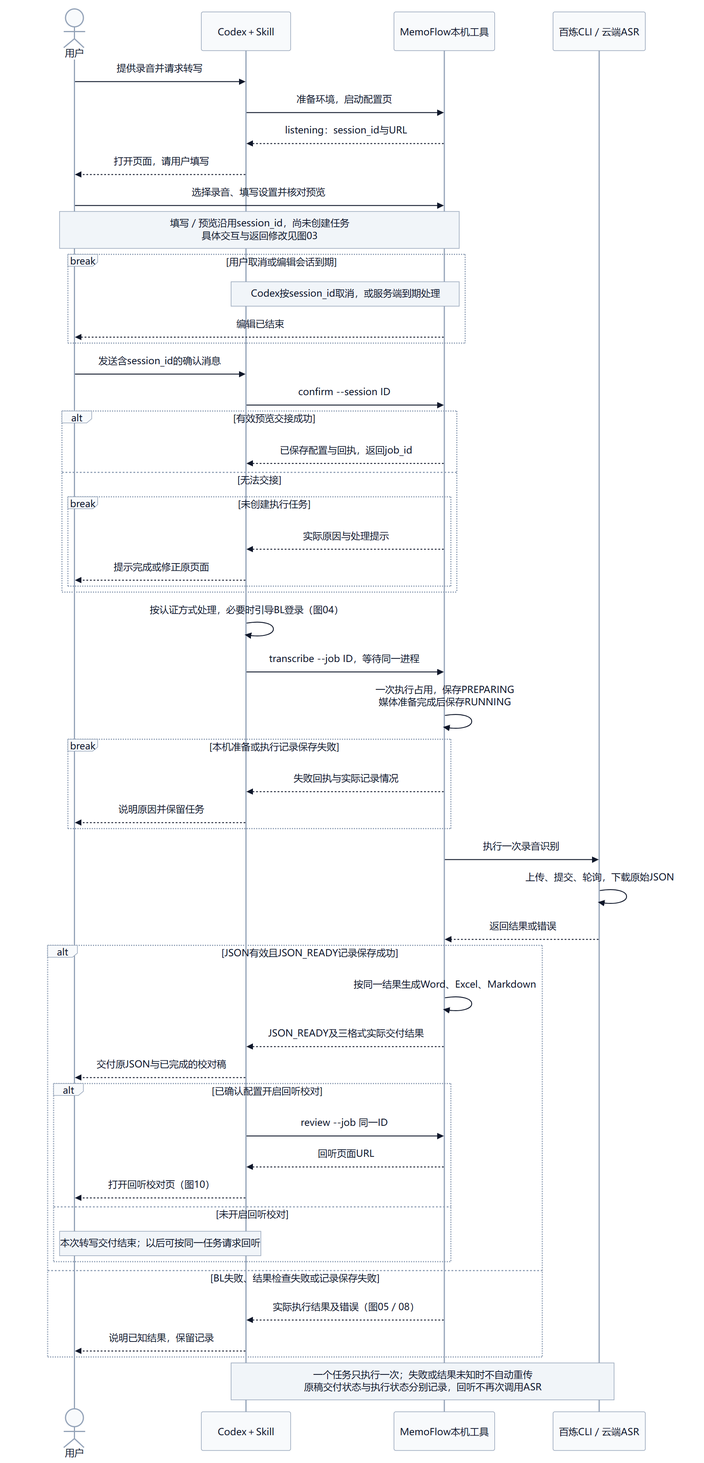
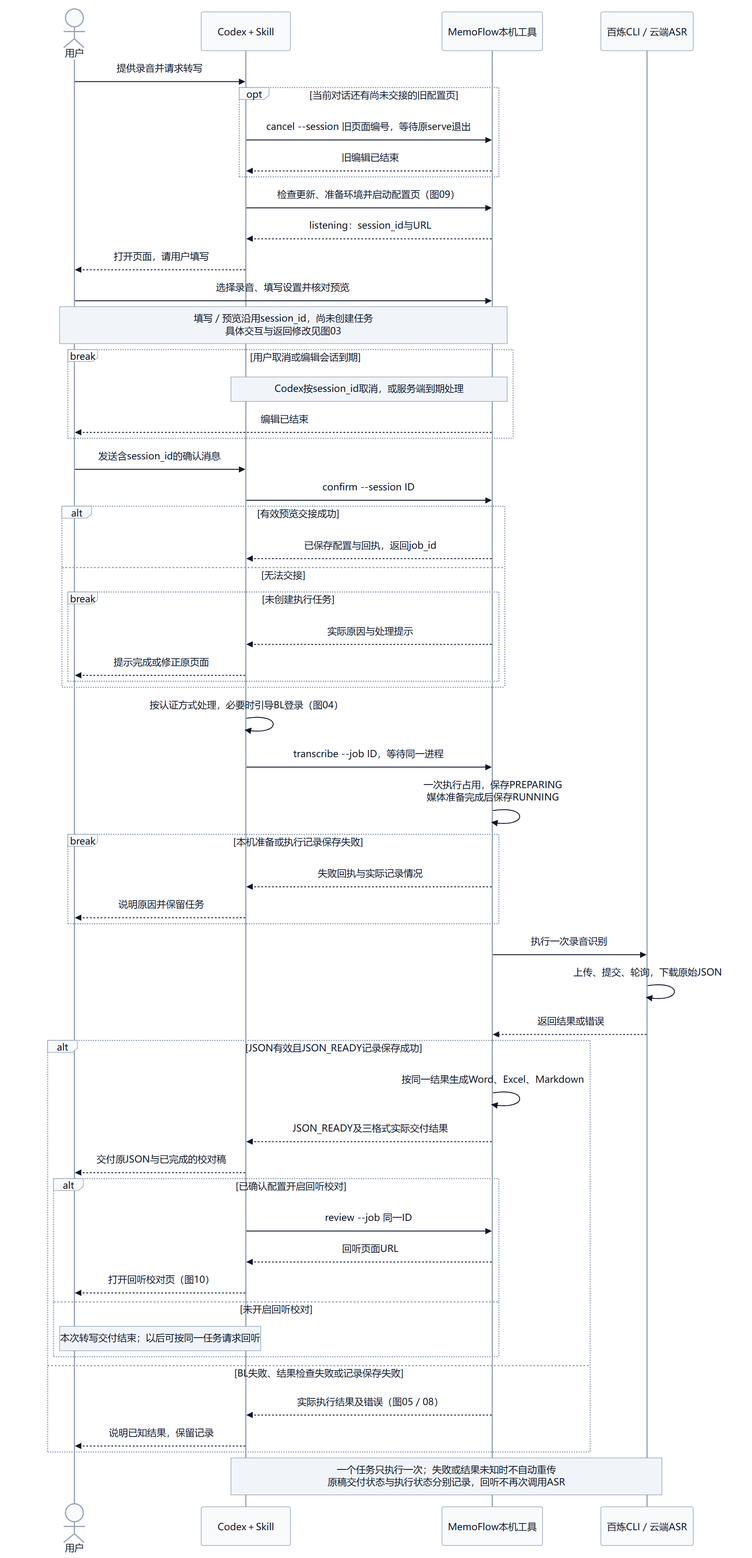
fix: start a fresh recording flow after closing prior configuration

diff --git a/tests/test_package.py b/tests/test_package.py
@@ -9,6 +9,8 @@ import shutil
 import subprocess
 import sys
 from unittest.mock import patch
+from urllib.request import HTTPCookieProcessor, build_opener
+import wave
 from zipfile import ZipFile
 
 import update
@@ -42,7 +44,7 @@ class PackageTests(RuntimeTestCase):
         return destination
 
     def test_cancelled_page_releases_packaged_skill_for_update(self):
-        """验证实际发行页面取消并退出后，更新器取得同一安装的独占使用权。"""
+        """验证旧配置页退出后可检查更新，再带入新录音进入填写阶段。"""
         installed = self.extract()
         command = [sys.executable, "-B", "-X", "utf8", str(installed / "scripts/asr.py"),
                    "--workspace", str(self.runtime.workspace)]
@@ -55,6 +57,7 @@ class PackageTests(RuntimeTestCase):
             with patch.object(update, "_download") as download:
                 self.assertEqual(update.update_skill(installed, check_now=True)["status"], "deferred")
             download.assert_not_called()
+            self.assertFalse((installed / update.STATE).exists())
             cancelled = subprocess.run(command + ["cancel", "--session", listening["session_id"]],
                                        capture_output=True, text=True, encoding="utf-8", timeout=15)
             self.assertEqual(cancelled.returncode, 0, cancelled.stderr)
@@ -67,7 +70,33 @@ class PackageTests(RuntimeTestCase):
             with patch.object(update, "_download", return_value=release) as download:
                 self.assertEqual(update.update_skill(installed, check_now=True)["status"], "latest")
             download.assert_called_once_with(update.LATEST_URL)
+
+            recording = self.runtime.workspace / "新的录音 中文 空格.wav"
+            with wave.open(str(recording), "wb") as audio:
+                audio.setnchannels(1)
+                audio.setsampwidth(2)
+                audio.setframerate(8000)
+                audio.writeframes(b"\0\0" * 800)
+            process = subprocess.Popen(command + ["serve", "--no-browser", "--audio", str(recording)],
+                                       stdout=subprocess.PIPE, stderr=subprocess.PIPE, text=True, encoding="utf-8")
+            assert process.stdout is not None
+            new_page = json.loads(process.stdout.readline())
+            self.assertEqual(new_page["event"], "listening")
+            self.assertNotEqual(new_page["session_id"], listening["session_id"])
+            browser = build_opener(HTTPCookieProcessor())
+            with browser.open(new_page["url"], timeout=10) as response:
+                self.assertEqual(response.status, 200)
+            with browser.open(new_page["url"].rstrip("/") + "/api/session", timeout=10) as response:
+                session = json.load(response)
+            self.assertEqual(session["phase"], "editing")
+            self.assertEqual(session["audio"]["path"], str(recording))
+            self.assertIsNone(session["preview"])
             self.assertFalse(self.runtime.path(".state/jobs").exists())
+            cancelled = subprocess.run(command + ["cancel", "--session", new_page["session_id"]],
+                                       capture_output=True, text=True, encoding="utf-8", timeout=15)
+            self.assertEqual(cancelled.returncode, 0, cancelled.stderr)
+            _, errors = process.communicate(timeout=15)
+            self.assertEqual(process.returncode, 0, errors)
         finally:
             if process.poll() is None:
                 process.kill()

diff --git a/skills/asr-transcription/SKILL.md b/skills/asr-transcription/SKILL.md
@@ -15,9 +15,11 @@ description: 在 Codex 中通过本机网页将单个录音转为带时间戳的
 
 ## 选择当前动作
 
+按本次用户意图区分“开始新录音”和“继续原任务”。录音附件是本次输入；只有用户确认已经核对过的网页预览时，才进入按编号交接。
+
 | 用户意图 | 动作 |
 | --- | --- |
-| 新录音或录音附件 | 已有基础 Python 时先检查更新，再准备当前 Skill 的依赖并进入“新录音”；首次缺少运行时先完成运行准备。附件也经过网页核对。 |
+| 请求转写新录音，含录音附件或路径 | 进入“新录音”，先处理本次旧配置页，再检查更新、准备环境并带入录音开页。 |
 | 取消本次填写或预览 | 按“结束当前页面”处理。 |
 | 主动检查／更新本 Skill | 有本次活动配置页或回听页时，先按“结束当前页面”收尾，再检查更新。只有用户明确提出本 Skill 更新才加 `--check-now`；上下文可补全所指 Skill。 |
 | 提供 ZIP 安装／更新 | 有本次活动页面时先按“结束当前页面”收尾，再按“安装或更新”处理。 |
@@ -40,7 +42,7 @@ description: 在 Codex 中通过本机网页将单个录音转为带时间戳的
 
 ## 检查更新
 
-开始新的使用时，读[自动更新](references/usage.md#自动更新)，用 `BASE_PYTHON -I -X utf8 SKILL_DIR/scripts/update.py` 检查。更新入口不接收 `--workspace`；它仅依赖基础 Python。基础 Python 尚不存在时先完成运行准备，已打开页面或正在等待登录／转写则继续原进程。
+开始新一轮使用时，读[自动更新](references/usage.md#自动更新)，用 `BASE_PYTHON -I -X utf8 SKILL_DIR/scripts/update.py` 检查。更新入口不接收 `--workspace`；它仅依赖基础 Python。基础 Python 尚不存在时先完成运行准备。用户继续当前填写、预览、登录或转写时复用原进程，不再次检查；明确转写新录音时按“新录音”重新开始。
 
 代码每天最多自动联网检查一次，成功、无更新和失败都计入当天；用户主动更新本 Skill 时加 `--check-now`。检查前文字告知，发现新版时说明当前／目标版本，最后按回执报告实际结果。无需另查 GitHub 或循环重跑。
 
@@ -49,7 +51,8 @@ description: 在 Codex 中通过本机网页将单个录音转为带时间戳的
 先判断 `repair_required`：为 `true` 时按[更新问题](references/errors.md#skill更新问题)修复。其余结果按原请求继续：
 
 - `updated`：重新读取新 `SKILL.md`，用原基础 Python 运行 `bootstrap --cleanup-old-cache`。成功后按下述规则简述更新，随后继续原请求。
-- `failed` 且可恢复、当天缓存、`deferred`、`unmanaged`、无更新或附带记录／清理警告：报告结果并继续使用当前安装；详表见更新问题。其他占用命令沿原进程继续，本次已取消页面保持结束。
+- `deferred`：仍有命令占用，保持当前安装；按本次用户意图继续。新录音进入开页步骤，不能因更新暂缓转去索要旧页面的确认编号。
+- `failed` 且可恢复、当天缓存、`unmanaged`、无更新或附带记录／清理警告：报告结果并继续使用当前安装；详表见更新问题。本次已取消页面保持结束。
 
 只要求检查／更新时，处理完保持空闲。原请求是新转写时，完成环境准备后实际启动网页并请求打开链接，再请用户填写。共享 Skill 的更新结果不能代替各工作目录的依赖准备。
 
@@ -69,10 +72,11 @@ description: 在 Codex 中通过本机网页将单个录音转为带时间戳的
 
 ## 新录音
 
-1. **启动并打开网页。** 使用本次用户提供或宿主明确标注的录音绝对路径执行 `PYTHON ENTRY --workspace WORKSPACE serve --audio AUDIO_PATH`。多个录音未指定时先让用户选择一个；没有可访问附件路径时正常启动空表单，由用户在页面选择。保留原进程句柄，等待 `event=listening` 并记住 `session_id`。宿主能开链接时加 `--no-browser`，收到回执后请求打开 `url` 一次；否则读取系统浏览器打开结果。失败按[开页问题](references/errors.md#页面打开问题)处理，正常路径不依赖截图或 computer-use。
-2. **交给用户填写。** 实际收到监听回执并提交打开请求后，请用户填写、点击“确认并预览”、核对上传范围与费用，再点“复制给 Codex”发送包含接收方、地域、模型和会话编号的确认消息。结束当前回复并保留服务。转写及回听期间保持原录音可访问。
-3. **按用户编号交接。** 用户表达开始意图并亲自提供本次预览的 `session_id` 后，执行 `confirm --session SESSION_ID`。仅“继续／确认”而没有编号时，请其粘贴复制消息，不能从启动回执、历史或文件时间代选。随后单独补发编号即可承接开始意图。成功取得 `job_id` 才执行；失败按提示处理原页面。重复确认返回原任务。
-4. **认证并执行。** API Key 模式直接执行，工具读取网页保存的当前 Key；控制台模式按下表处理。交接已包含本次上传授权，执行一次 `transcribe --job JOB_ID`，启动后告知已开始并等待同一进程，直到交付或明确失败再结束回复。
+1. **准备新一轮填写。** 当前对话有尚未交接的配置页时，先告知结束旧填写，按“结束当前页面”取消并等待原 `serve` 退出。保留本次录音路径，串行完成检查更新和必要的运行准备，再启动新页面；首次缺少基础 Python 时先准备运行。已交接任务、回听页和其他对话的服务保持各自生命周期。
+2. **启动并打开网页。** 使用本次用户提供或宿主明确标注的录音绝对路径执行 `PYTHON ENTRY --workspace WORKSPACE serve --audio AUDIO_PATH`。多个录音未指定时先让用户选择一个；没有可访问附件路径时正常启动空表单，由用户在页面选择。保留原进程句柄，等待 `event=listening` 并记住 `session_id`。宿主能开链接时加 `--no-browser`，收到回执后请求打开 `url` 一次；否则读取系统浏览器打开结果。失败按[开页问题](references/errors.md#页面打开问题)处理，正常路径不依赖截图或 computer-use。
+3. **交给用户填写。** 实际收到监听回执并提交打开请求后，请用户填写、点击“确认并预览”、核对上传范围与费用，再点“复制给 Codex”发送包含接收方、地域、模型和会话编号的确认消息。结束当前回复并保留服务。转写及回听期间保持原录音可访问。
+4. **按用户编号交接。** 用户核对本次网页预览并发送含 `session_id` 的确认消息后，执行 `confirm --session SESSION_ID`。用户正在确认已开预览、但仅回复“继续／确认”而没有编号时，请其粘贴复制消息，不能从启动回执、历史或文件时间代选。随后单独补发编号即可承接确认意图。成功取得 `job_id` 才执行；失败按提示处理原页面。重复确认返回原任务。
+5. **认证并执行。** API Key 模式直接执行，工具读取网页保存的当前 Key；控制台模式按下表处理。交接已包含本次上传授权，执行一次 `transcribe --job JOB_ID`，启动后告知已开始并等待同一进程，直到交付或明确失败再结束回复。
 
 | 控制台凭据情况 | 动作 |
 | --- | --- |
@@ -98,9 +102,9 @@ description: 在 Codex 中通过本机网页将单个录音转为带时间戳的
 
 先按页面类型选择入口：填写／预览使用 `session_id` 与 `cancel`；回听使用原 `job_id` 与 `review-close`。回听期间用户要求更新或提供新ZIP时，按上节先完成保存、关闭回听并等待原进程退出，再继续更新或安装。
 
-用户在填写或预览时取消、检查更新或提供新 ZIP，先用本次活动页面启动回执中已保存的编号运行 `cancel --session SESSION_ID`，取得结果并等待原 `serve` 退出；直接复用已有环境。目标页面不明确时先确认范围。
+用户在填写或预览时取消、明确开始新录音、检查更新或提供新 ZIP，先用当前对话活动页面启动回执中已保存的编号运行 `cancel --session SESSION_ID`，取得结果并等待原 `serve` 退出；直接复用已有环境。目标页面不明确时先确认范围。
 
-- `cancelled`：本次编辑结束；只取消则保持空闲，要求更新则进入对应入口。下一次转写新建会话。
+- `cancelled`：本次编辑结束；只取消则保持空闲，要求更新则进入对应入口，明确转写新录音则继续新一轮更新、准备及开页。
 - `expired`：编辑已到期，等待服务退出后按本次请求继续。编辑期限从打开起固定两小时，不影响已交接任务。
 - `handed_off`：已有任务，取消入口没有撤回它；用户要求停止时停止后续执行。已启动 BL 的情况按原执行记录说明，本机停止不代表云端取消。
 

diff --git a/doc/STATUS.md b/doc/STATUS.md
@@ -1,6 +1,12 @@
 # 当前开发检查点
 
-更新：2026-11-16。**v0.1.6已正式发布并设为latest**，Release ID为446669327，标签固定在137ab3f。发布地址：https://github.com/hx101700/memoflow/releases/tag/v0.1.6 。本次发布与master合并已有用户明确授权；后续新任务的Git操作按新指示处理。
+更新：2026-11-16。用户已明确授权将新录音分派修正同步master并同号重发v0.1.6。沿用Release446669327，其他版本保持；本次重发前标签提交为137ab3f。发布地址：https://github.com/hx101700/memoflow/releases/tag/v0.1.6 。Release正文按用户要求保持已确认版本。
+
+## 当前修正
+
+用户反馈先前已打开配置页，再附上新录音时更新暂缓，Codex误要求旧预览编号。源码Skill现按本次意图区分新录音和原任务确认：新录音先取消当前对话未交接的旧配置页并等待退出，再更新、准备及带入附件开页；其他任务或回听占用仍可暂缓更新，保持原服务。仅确认已核对的预览时要求用户提供编号。Python业务实现与锁机制未改变。
+
+扩展现有打包集成用例，实际验证旧页面占用→取消退出→更新检查→中文空格路径附件进入editing、无preview及job；15项打包回归通过（19.810秒）。另有独立只读Skill行为推演3场景、Skill格式、25份文档177个链接与03/07/09图渲染通过。重发双包已生成并核对，等待提交、同号标签和附件更新；用户安装保持原样。
 
 ## 当前交付
 
@@ -15,7 +21,7 @@
 
 ## 发布与验证
 
-- 正式双包位于dist/release-v0.1.6，轻量包55文件／410527字节，完整版57文件／70429121字节；逐文件、最新README、manifest、官方运行时和ZIP CRC核对通过。远端附件大小与SHA-256一致。
+- 本次重发双包位于dist/release-v0.1.6-reissue，轻量包55文件／411046字节，完整版57文件／70429640字节；逐文件、最新README、manifest、官方运行时和ZIP CRC核对通过。原发布包位于dist/release-v0.1.6，历史核对记录保留在ACCEPTANCE。
 - Release正文采用用户确认版本，六个历史Release及附件保持；本版为最新正式版本。发布代码为137ab3f，之后的提交仅补充发布记录。
 - 本版开发验证包含完整Python567项、前端68项、Edge5项及类型/构建/Skill格式检查。媒体连接收尾修正后22项HTTP回归通过；发布元数据同步后51项打包/更新测试通过。实际命令、范围与时间见ACCEPTANCE。
 - 公开更新入口已使独立官方v0.1.5副本升级到0.1.6：受管文件匹配轻量包，清单结构匹配，更新说明匹配Release；当日再次调用返回checked_today且不重复说明。
@@ -23,7 +29,7 @@
 
 ## 接续开发
 
-后续在dev开展。项目与安装清单版本为0.1.6；下一次正式发布时再递增，历史标签和附件保持。Release继续采用release/NEXT约定与简短“修复 bug 并优化使用体验。”。
+后续在dev开展。项目与安装清单版本保持0.1.6；本次用户明确授权重发，其他历史标签和附件保持。同号资源更新仍使用ZIP重新安装流程，自动更新仅获取更高版本。Release继续采用release/NEXT约定与简短“修复 bug 并优化使用体验。”。
 
 SHA-256匹配历史成功音视频并取回转写文档按ISSUES排期待开发，尚未实现。个性化纪要生成及反馈学习仍属于后续阶段。
 

diff --git a/doc/ACCEPTANCE.md b/doc/ACCEPTANCE.md
@@ -1,5 +1,17 @@
 # 验证记录
 
+## 2026-11-16 v0.1.6新录音衔接重发准备
+
+用户明确授权同步master与重发同一v0.1.6，Release正文保持原确认版本。`unittest tests.test_package -q` 15项通过，19.810秒，包含旧服务占用释放、更新检查与新附件开页回归。双包dist/release-v0.1.6-reissue按固定清单逐文件核对源码、README、manifest及官方运行时，CRC通过；轻量包55文件/411046字节、SHA-256为8764c3f5ca96da8032242a64dfefc3f3cb5736a1096d6c3daf4ae9ee78896096；完整版57文件/70429640字节、SHA-256为8ecddfaafc25d5aa4ec4d5fd14aa86f550846f699e1d0c2be62690b24151dfb2。
+
+预检确认目标Release446669327及原标签对象fadd18e77439a99d8e81066eb87091bca570b216，保存七个公开Release的ID、正文与附件摘要供重发后比对。公开API预检遇到限流后使用既有GitHub登录完成，只影响发布工具，不修改Skill更新器。实际标签、附件替换与远端核对结果随后记录。
+
+## 2026-11-16 新附件与旧配置页的更新衔接
+
+修正范围为Skill及相关说明，不修改Python业务或更新锁。扩展现有`tests.test_package.PackageTests.test_cancelled_page_releases_packaged_skill_for_update`，真实启动已打包serve后验证deferred未联网且未写日检；取消并等待进程退出，更新检查成功后用中文空格路径带入新录音，再读取HTTP页面状态确认editing、正确audio、preview为空且没有job。用例通过，6.331秒，未请求云端。
+
+独立评估者仅读修改后的SKILL.md，对三个场景作命令顺序推演：旧配置页后新附件、原预览只回复继续、其他目录占用导致deferred。新附件两种情形均进入开页，原预览确认等待用户编号；这是行为推演，不替代真实Codex会话执行。Skill格式有效，25份文档177个链接与差异检查通过；03/07/09经共享入口渲染。正式v0.1.6、远端及用户安装未改变。
+
 ## 2026-11-16 v0.1.6正式发布与公开升级
 
 用户明确授权合并master并发布新版本。master/dev已快进到137ab3f9cdacde695d636b047a203f922a956b40，新增标签v0.1.6指向该提交。GitHub Release446669327公开且latest为v0.1.6，正文与本地release/NOTES.md一致；两附件大小及SHA-256均与下方发布准备记录一致。六个历史Release的ID和附件摘要回读保持，未删除或重发旧版本。

diff --git a/doc/DEVLOG.md b/doc/DEVLOG.md
@@ -4,6 +4,8 @@
 
 | 日期 | 当时变更与决定 |
 | --- | --- |
+| 2026-11-16 | 用户授权将新录音分派修正推送master并重新发布v0.1.6，要求Release不加同版本手动更新说明，沿用已确认正文。15项打包回归和重发双包核对通过，准备按原标签对象租约更新v0.1.6并沿用Release446669327替换两附件，其他版本保持 |
+| 2026-11-16 | 用户反馈旧页面打开后提交新录音，更新deferred后被索要预览编号。确认Skill将新使用、旧会话继续和更新后分派的边界写得不够明确；新增当前对话旧配置页收尾顺序，收窄按编号交接到用户确认网页预览，保留其他任务的共享使用。运行锁及更新器不变，扩展已有集成测试与独立行为推演验证；同步references及03/07/09图，未推送发布 |
 | 2026-11-16 | v0.1.6正式发布完成，master/dev快进到发布代码137ab3f，Release446669327标为latest；双包及已确认正文回读一致，历史六个版本及附件保留。独立官方v0.1.5副本经公开入口升级成功，受管文件、清单结构、更新说明及当日日检复用核对通过；用户安装未替换，详细记录见ACCEPTANCE |
 | 2026-11-16 | 用户确认v0.1.6正式发布并授权合并master。通过npm同步根及BL安装清单/锁版本，保留固定CLI2.10.1；README去重、简化回听节点、持续反馈和代码块按最终反馈修改，Release沿用已确认文案。51项发行/更新回归及正式双包核对通过；实际发布结果完成后追加 |
 | 2026-11-16 | 用户指出GitHub仍显示旧图和旧索引；核对确认先前修正仅在工作区，远端07/11仍匹配be440a6。明确将双语README、UML索引、07/11源稿和PNG一并同步dev；远端与本地theme.json内容一致，共用原渲染入口，主题不改动 |

diff --git a/skills/asr-transcription/references/errors.md b/skills/asr-transcription/references/errors.md
@@ -46,7 +46,7 @@
 | checked_today | 当天已检查，读取 `last_status`、`is_latest` 和 `message`；不再联网。`is_latest=null` 表示没有核实版本是否最新；当天失败结果不阻止继续本次转写请求，仍以 `repair_required` 为准。 |
 | updated | 已用轻量包覆盖 Skill，重新读取 SKILL.md，并按当前依赖准备本次工作目录。 |
 | local_ahead | 安装版本高于最新正式版，保留当前安装。 |
-| deferred | 有命令正在使用同一 Skill，尚未联网、不消耗检查机会；使用当前安装继续本次请求，空闲后的下一次使用再检查。 |
+| deferred | 有命令正在使用同一 Skill，尚未联网、不消耗检查机会。新录音请求使用当前安装继续开页；用户确认已开预览时才需要确认编号。空闲后的下一次使用再检查。 |
 | unmanaged | 缺少包内发行清单，不自动覆盖；使用当前源码或安装继续本次请求。需启用自动更新时安装包含更新入口的新 ZIP。 |
 | failed，repair_required=false | 网络请求已用完本次可用重试或不符合重试条件，或包预检失败时，原安装保持；覆盖失败时已恢复原文件并清理本次新增及暂存；首次检查日期写入失败时尚未联网、安装未改。继续使用回执中的安装版本，已写入的当日记录不自动重查。 |
 | repair_required=true | 原安装恢复未完成、上次覆盖未结束，或旧发行清单、日检状态、读取保护无法确认安装完整性；返回非零退出码，业务入口停止并说明实际问题。结束使用该 Skill 的命令后，按回执排除读写问题或用最新 ZIP 重新安装，工作目录保留。 |

diff --git a/doc/ISSUES.md b/doc/ISSUES.md
@@ -6,6 +6,7 @@
 
 | 事项 | 已有证据与状态 | 后续依据 |
 | --- | --- | --- |
+| 新附件在旧配置页之后误进入确认交接 | 用户确认此前已开页；回执为deferred，随后被索要预览编号。已本机复现旧serve占用及退出后释放，源码Skill明确新录音先结束本次旧编辑、再更新开页；集成测试与三场景行为推演通过 | 待新版本发布后核对现场对话；当前未取得完整工具顺序，不能声称已重放该用户会话 |
 | 人工回听用户验收 | 阅读式正文及回听交互通过本机回归；用户确认原生目录窗口可用，production演示任务实际三格式COMPLETE且文件存在 | 继续收集校对体验，补真实长录音和Office视觉验收 |
 | 两次443连接超时的现场反馈 | v0.1.4 / BL2.7.2均返回UND_ERR_CONNECT_TIMEOUT、10000ms，HTTP状态及request ID为空。已复现旧环境白名单丢弃代理设置，修复已包含在v0.1.5；用户换网络后成功，但实际网络配置未知，不能将代理继承认定为现场根因 | 结合现场结果核对；旧任务仍按已知结果处理并保持不重传。现有记录未保留BL的cause/hint，过去细节无法补回 |
 | 更新403后没有开页的现场反馈 | 只有Codex文字回复，无后续工具记录；本机403→实际serve链路已通过，v0.1.3包含衔接修正 | 取得现场脱敏命令回执，确认停在更新、环境还是开页，不预设Chrome或BL原因 |

diff --git a/doc/REVIEW.md b/doc/REVIEW.md
@@ -2,6 +2,12 @@
 
 日期：2026-11-16。范围为本轮人工回听体验及其直接调用，不以先前发行检查代替本次验证。上一份发布审查保留在[e70d81b版本](https://github.com/hx101700/memoflow/blob/e70d81b/doc/REVIEW.md)。
 
+## 新录音与更新分派
+
+用户报告旧页打开后提供新录音，更新deferred却被要求提供预览编号。代码核对确认asr.py在serve整个生命周期持有共享句柄，update.py独占失败时只返回deferred且不写日检日期；附件登记本身不创建该占用。问题位于Skill对“新使用／继续旧页”的分派与“开始意图”的宽泛表述。当前修正先按本次意图决定流程：明确新录音时收尾当前对话未交接配置页，再串行更新、准备和开页；确认已核对预览时才使用编号交接。其他任务和回听页保持，更新暂缓后仍可新开填写页。
+
+复用已有cancel、update与serve入口，未增加状态、锁、占用扫描或自动终止。扩展打包集成用例验证实际服务退出、更新可执行、新附件保持与不提前建job；独立只读推演新附件／继续确认／其他目录占用三个场景，均沿上述边界分派。现场完整工具记录仍缺失，后续以真实用户复测补齐。
+
 ## 发现与处理
 
 | 发现 | 处理与证据 |
